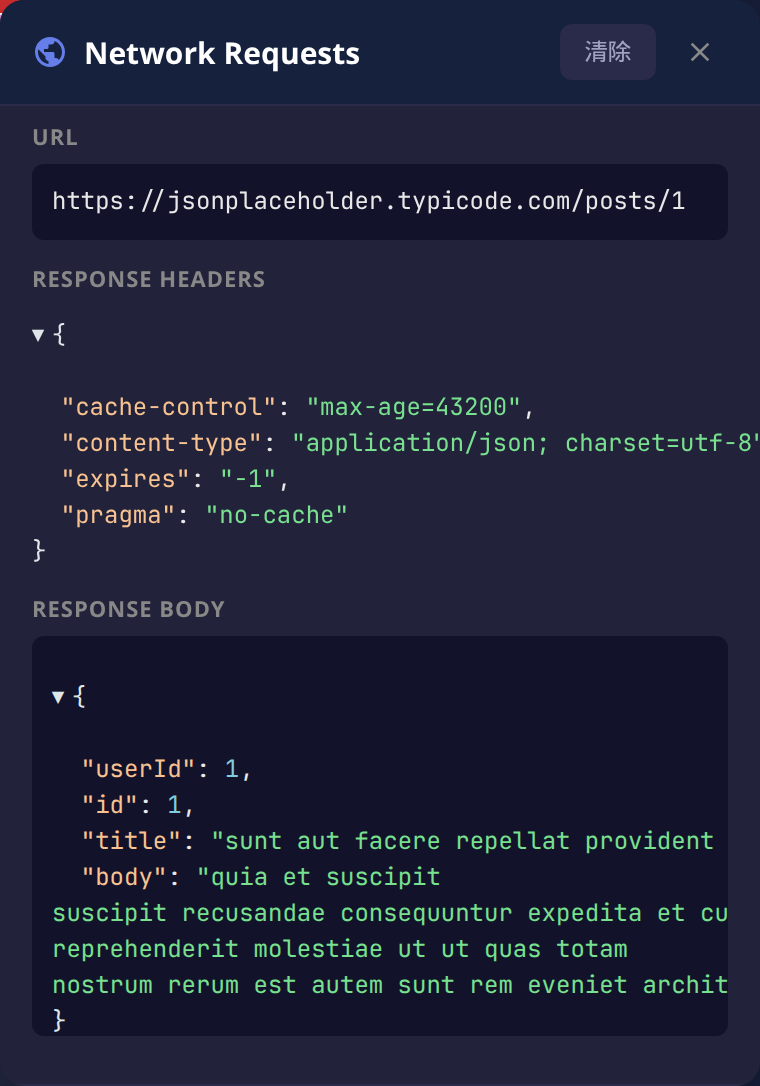
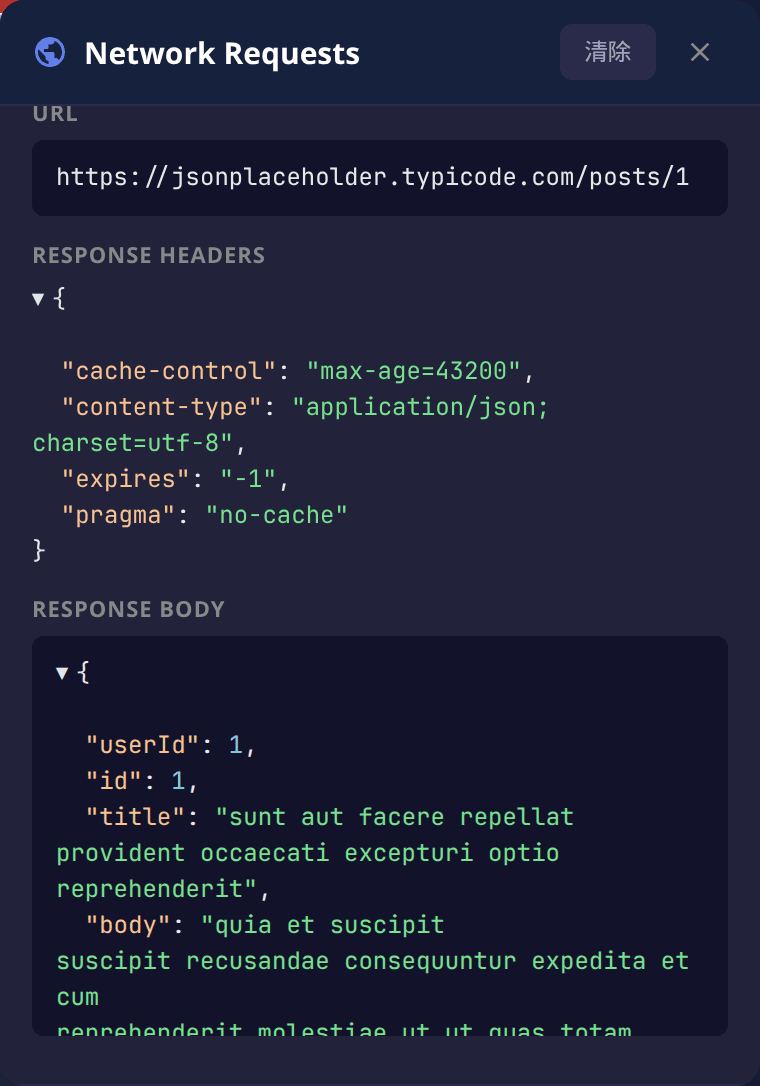
fix: restyle panel scrollbars and correct documented behavior
Thin, dark scrollbars replace the native bars in the request list and
detail blocks, and long JSON lines wrap instead of forcing a horizontal
bar. Request snapshots stay stable for useSyncExternalStore, and hooks
subscribe to open, close, and clear instead of polling. README now
states the real Pages limitation and the requests that are not intercepted.

diff --git a/src/adapters/react.tsx b/src/adapters/react.tsx
@@ -82,16 +82,14 @@ export const AjaxWatcherProvider: FC<AjaxWatcherProviderProps> = ({
   useEffect(() => {
     if (autoOpen && !ajaxWatcher.isActive()) {
       ajaxWatcher.open(options);
-      setIsActive(true);
     }
 
-    const unsubscribe = ajaxWatcher.on('request', () => {
-      setRequests([...ajaxWatcher.getRequests()]);
-    });
-
-    return () => {
-      unsubscribe();
+    const sync = () => {
+      setIsActive(ajaxWatcher.isActive());
+      setRequests(ajaxWatcher.getRequests());
     };
+    sync();
+    return ajaxWatcher.subscribe(sync);
   }, [autoOpen]);
 
   const open = useCallback((opts?: AjaxWatcherOptions) => {
@@ -170,26 +168,13 @@ export function useAjaxWatcher(options?: AjaxWatcherOptions): AjaxWatcherContext
   const [requests, setRequests] = useState<NetworkRequest[]>(() => ajaxWatcher.getRequests());
 
   useEffect(() => {
-    const unsubscribe = ajaxWatcher.on('request', () => {
-      setRequests([...ajaxWatcher.getRequests()]);
+    const sync = () => {
       setIsActive(ajaxWatcher.isActive());
-    });
-
-    const checkInterval = setInterval(() => {
-      const active = ajaxWatcher.isActive();
-      if (active !== isActive) {
-        setIsActive(active);
-        if (!active) {
-          setRequests([]);
-        }
-      }
-    }, 1000);
-
-    return () => {
-      unsubscribe();
-      clearInterval(checkInterval);
+      setRequests(ajaxWatcher.getRequests());
     };
-  }, [isActive]);
+    sync();
+    return ajaxWatcher.subscribe(sync);
+  }, []);
 
   const open = useCallback((opts?: AjaxWatcherOptions) => {
     ajaxWatcher.open({ ...options, ...opts });
@@ -244,32 +229,22 @@ export function useAjaxWatcher(options?: AjaxWatcherOptions): AjaxWatcherContext
  * ```
  */
 export function useNetworkRequests(): NetworkRequest[] {
-  const subscribe = useCallback((callback: () => void) => {
-    return ajaxWatcher.on('request', callback);
-  }, []);
-
-  const getSnapshot = useCallback(() => {
-    return ajaxWatcher.getRequests();
-  }, []);
-
-  return useSyncExternalStore(subscribe, getSnapshot, getSnapshot);
+  return useSyncExternalStore(
+    (onStoreChange) => ajaxWatcher.subscribe(onStoreChange),
+    () => ajaxWatcher.getRequests(),
+    () => ajaxWatcher.getRequests()
+  );
 }
 
 /**
  * 监听调试状态变化
  */
 export function useIsActive(): boolean {
-  const [isActive, setIsActive] = useState(() => ajaxWatcher.isActive());
-
-  useEffect(() => {
-    const checkInterval = setInterval(() => {
-      setIsActive(ajaxWatcher.isActive());
-    }, 500);
-
-    return () => clearInterval(checkInterval);
-  }, []);
-
-  return isActive;
+  return useSyncExternalStore(
+    (onStoreChange) => ajaxWatcher.subscribe(onStoreChange),
+    () => ajaxWatcher.isActive(),
+    () => ajaxWatcher.isActive()
+  );
 }
 
 export { ajaxWatcher };

diff --git a/src/index.ts b/src/index.ts
@@ -41,6 +41,8 @@ class AjaxWatcher implements AjaxWatcherInstance {
   private requests: NetworkRequest[] = [];
   private requestMap: Map<string, NetworkRequest> = new Map();
   private listeners: Set<EventCallback> = new Set();
+  private changeListeners: Set<() => void> = new Set();
+  private requestSnapshot: NetworkRequest[] = [];
   private cleanupXHR: (() => void) | null = null;
   private cleanupFetch: (() => void) | null = null;
   private autoCloseTimer: ReturnType<typeof setTimeout> | null = null;
@@ -74,6 +76,7 @@ class AjaxWatcher implements AjaxWatcherInstance {
     }
 
     this.scheduleAutoClose(this.options.keepingTime);
+    this.emitChange();
 
     if (this.options.console) {
       console.log(
@@ -102,6 +105,7 @@ class AjaxWatcher implements AjaxWatcherInstance {
 
     this.panel?.unmount();
     this.panel = null;
+    this.emitChange();
 
     if (this.options.console) {
       console.log('[ajax-watcher] 调试已关闭');
@@ -109,12 +113,13 @@ class AjaxWatcher implements AjaxWatcherInstance {
   }
 
   getRequests(): NetworkRequest[] {
-    return [...this.requests];
+    return this.requestSnapshot;
   }
 
   clearRequests(): void {
     this.requests = [];
     this.requestMap.clear();
+    this.publishRequests();
   }
 
   isActive(): boolean {
@@ -138,7 +143,9 @@ class AjaxWatcher implements AjaxWatcherInstance {
     restoreAll();
     this.requests = [];
     this.requestMap.clear();
+    this.requestSnapshot = [];
     this.listeners.clear();
+    this.changeListeners.clear();
   }
 
   on(event: 'request', callback: EventCallback): () => void {
@@ -147,6 +154,20 @@ class AjaxWatcher implements AjaxWatcherInstance {
       return () => this.listeners.delete(callback);
     }
     return () => {};
+  }
+
+  subscribe(listener: () => void): () => void {
+    this.changeListeners.add(listener);
+    return () => this.changeListeners.delete(listener);
+  }
+
+  private publishRequests(): void {
+    this.requestSnapshot = this.requests.slice();
+    this.emitChange();
+  }
+
+  private emitChange(): void {
+    this.changeListeners.forEach((listener) => listener());
   }
 
   private tryAutoRestore(): void {
@@ -169,6 +190,7 @@ class AjaxWatcher implements AjaxWatcherInstance {
 
       const remaining = getRemainingTime(config);
       this.scheduleAutoClose(remaining);
+      this.emitChange();
 
       if (this.options.console) {
         console.log(
@@ -195,6 +217,7 @@ class AjaxWatcher implements AjaxWatcherInstance {
         }
       }
 
+      this.publishRequests();
       this.panel?.updateRequest(request);
       this.options.onRequest?.(request);
       this.listeners.forEach((cb) => cb(request));

diff --git a/src/ui/styles.ts b/src/ui/styles.ts
@@ -167,9 +167,37 @@ export const styles = `
 .ajax-watcher-list {
   flex: 1;
   overflow-y: auto;
-  min-height: 200px;
+  min-height: 160px;
   max-height: 50vh;
   width: 380px;
+  scrollbar-width: thin;
+  scrollbar-color: rgba(168, 176, 214, 0.55) transparent;
+}
+
+.ajax-watcher-list::-webkit-scrollbar,
+.ajax-watcher-detail-content::-webkit-scrollbar {
+  width: 8px;
+  height: 8px;
+}
+
+.ajax-watcher-list::-webkit-scrollbar-track,
+.ajax-watcher-detail-content::-webkit-scrollbar-track {
+  background: transparent;
+}
+
+.ajax-watcher-list::-webkit-scrollbar-thumb,
+.ajax-watcher-detail-content::-webkit-scrollbar-thumb {
+  background: rgba(168, 176, 214, 0.45);
+  border-radius: 999px;
+  border: 2px solid transparent;
+  background-clip: padding-box;
+}
+
+.ajax-watcher-list::-webkit-scrollbar-thumb:hover,
+.ajax-watcher-detail-content::-webkit-scrollbar-thumb:hover {
+  background: rgba(168, 176, 214, 0.75);
+  background-clip: padding-box;
+  border: 2px solid transparent;
 }
 
 @media (max-width: 600px) {
@@ -294,19 +322,26 @@ export const styles = `
 .ajax-watcher-detail-content {
   background: #12122a;
   border-radius: 6px;
-  padding: 10px;
+  padding: 10px 12px;
   font-family: 'SF Mono', Monaco, 'Cascadia Code', monospace;
   font-size: 12px;
   line-height: 1.5;
   max-height: 200px;
   overflow: auto;
-  word-break: break-all;
+  overflow-wrap: anywhere;
+  word-break: break-word;
+  scrollbar-width: thin;
+  scrollbar-color: rgba(168, 176, 214, 0.55) transparent;
 }
 
 .ajax-watcher-json {
+  margin: 0;
   font-family: 'SF Mono', Monaco, 'Cascadia Code', monospace;
   font-size: 12px;
   line-height: 1.5;
+  white-space: pre-wrap;
+  overflow-wrap: anywhere;
+  word-break: break-word;
 }
 
 .ajax-watcher-json-key { color: #f8c291; }

diff --git a/tests/api.test.ts b/tests/api.test.ts
@@ -1,0 +1,45 @@
+import { describe, it, expect, beforeEach, afterEach } from 'vitest';
+import { ajaxWatcher } from '../src/index';
+
+describe('public watcher API', () => {
+  beforeEach(() => {
+    localStorage.clear();
+    document.body.innerHTML = '';
+    if (ajaxWatcher.isActive()) {
+      ajaxWatcher.close();
+    }
+    ajaxWatcher.clearRequests();
+  });
+
+  afterEach(() => {
+    if (ajaxWatcher.isActive()) {
+      ajaxWatcher.close();
+    }
+    ajaxWatcher.clearRequests();
+  });
+
+  it('keeps getRequests snapshot stable until the list changes', () => {
+    ajaxWatcher.open({ keepingTime: 60_000, console: false, autoShow: false });
+
+    const first = ajaxWatcher.getRequests();
+    const second = ajaxWatcher.getRequests();
+    expect(first).toBe(second);
+    expect(first).toEqual([]);
+  });
+
+  it('notifies subscribers when debug state or records change', () => {
+    const events: string[] = [];
+    const unsubscribe = ajaxWatcher.subscribe(() => {
+      events.push(ajaxWatcher.isActive() ? 'active' : 'inactive');
+    });
+
+    ajaxWatcher.open({ keepingTime: 60_000, console: false, autoShow: false });
+    ajaxWatcher.clearRequests();
+    ajaxWatcher.close();
+    unsubscribe();
+
+    expect(events).toEqual(['active', 'active', 'inactive']);
+    expect(ajaxWatcher.getRequests()).toEqual([]);
+    expect(ajaxWatcher.getRequests()).toBe(ajaxWatcher.getRequests());
+  });
+});

diff --git a/demo/index.html b/demo/index.html
@@ -9,6 +9,25 @@
       box-sizing: border-box;
     }
 
+    html {
+      scrollbar-width: thin;
+      scrollbar-color: rgba(168, 176, 214, 0.45) #12122a;
+    }
+
+    html::-webkit-scrollbar {
+      width: 8px;
+      height: 8px;
+    }
+
+    html::-webkit-scrollbar-track {
+      background: #12122a;
+    }
+
+    html::-webkit-scrollbar-thumb {
+      background: rgba(168, 176, 214, 0.45);
+      border-radius: 999px;
+    }
+
     body {
       font-family: -apple-system, BlinkMacSystemFont, 'Segoe UI', Roboto, 'Helvetica Neue', sans-serif;
       background: linear-gradient(135deg, #1a1a2e 0%, #16213e 100%);

diff --git a/src/core/types.ts b/src/core/types.ts
@@ -136,6 +136,11 @@ export interface AjaxWatcherInstance {
    * 监听请求事件
    */
   on(event: 'request', callback: (request: NetworkRequest) => void): () => void;
+
+  /**
+   * 订阅请求列表或调试开关变化。回调不带参数，读取最新状态请调用 getRequests / isActive。
+   */
+  subscribe(listener: () => void): () => void;
 }
 
 export type EventCallback = (request: NetworkRequest) => void;

diff --git a/README.md b/README.md
@@ -9,7 +9,9 @@ A lightweight network request debugger designed for mobile/WeChat and other hard
 
 ## 🌐 在线演示 / Live Demo
 
-**[👉 GitHub Pages Demo](https://alwaysloseall.github.io/ajax-watcher/)** | **[⚡ StackBlitz](https://stackblitz.com/github/alwaysloseall/ajax-watcher/tree/refactor/modern-v2?file=demo%2Findex.html)**
+**[⚡ StackBlitz 在线试用](https://stackblitz.com/github/alwaysloseall/ajax-watcher/tree/refactor/modern-v2?file=demo%2Findex.html)**
+
+当前仓库的 GitHub Pages 只允许从 `master` 部署，所以 [现有 Pages 地址](https://alwaysloseall.github.io/ajax-watcher/) 仍是旧版页面。v2 演示会在本分支合并进 `master` 后由 Actions 发布；在此之前用上面的 StackBlitz 即可打开演示。
 
 ### 界面预览
 
@@ -28,7 +30,7 @@ A lightweight network request debugger designed for mobile/WeChat and other hard
 
 ## ✨ 特性 / Features
 
-- 🔍 **同时拦截 XHR 和 Fetch** - 完整覆盖现代 Web 应用的网络请求
+- 🔍 **同时拦截 XHR 和 Fetch** - 覆盖页面脚本发起的这两类请求。WebSocket、`sendBeacon` 和 Service Worker 不在范围内
 - 📱 **移动端优化** - 专为手机浏览器、微信内置浏览器等环境设计
 - ⏱ **时限调试** - 设置调试持续时间，自动关闭防止泄露
 - 💾 **状态持久化** - 刷新页面自动恢复调试状态
@@ -343,7 +345,7 @@ npm run build:demo
 
 ### 部署 Demo 到 GitHub Pages
 
-Demo 会通过 GitHub Actions 自动部署到 GitHub Pages。也可以手动部署：
+`.github/workflows/deploy-demo.yml` 会在推送到 `master` 后构建 `demo/dist` 并发布。这个仓库的 Pages 环境目前只接受 `master` 上的部署，所以功能分支上的工作流会构建成功、发布失败。合并后也可以在本地执行：
 
 ```bash
 npm run deploy
@@ -382,7 +384,7 @@ ajaxWatcher.on('request', (request) => {
 1. **调试时间限制** - `keepingTime` 设计用于防止调试状态意外暴露在生产环境
 2. **存储持久化** - 调试配置保存在 `localStorage`，键名为 `ajax-watcher`
 3. **请求数量限制** - 默认最多保留 100 条请求记录，防止内存溢出
-4. **Service Worker** - 目前不拦截 Service Worker 发起的请求
+4. **未拦截的通道** - 不拦截 WebSocket、`navigator.sendBeacon`，以及 Service Worker 内部发起的请求
 
 ## 🤝 贡献 / Contributing
 
